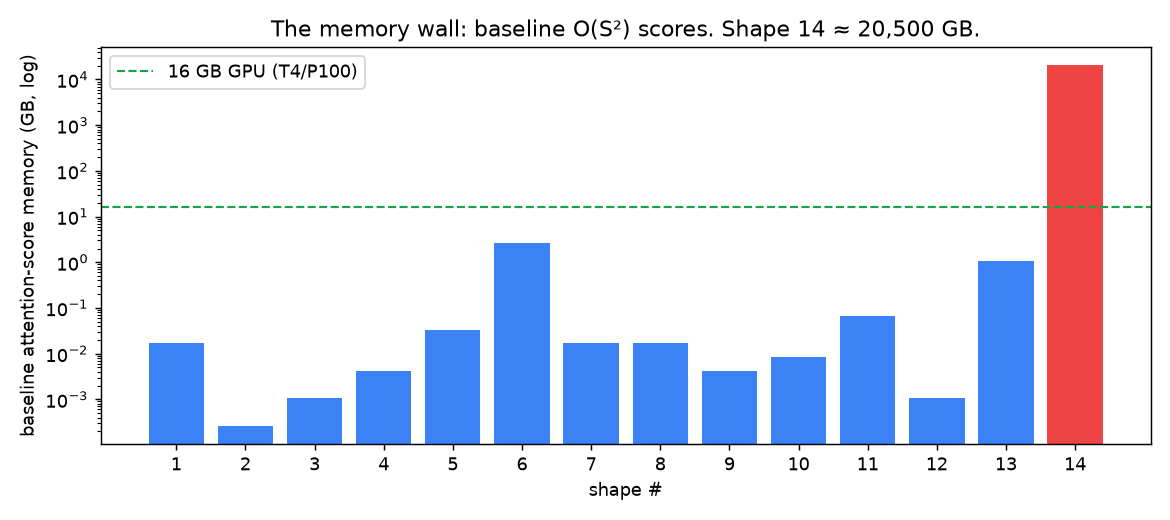
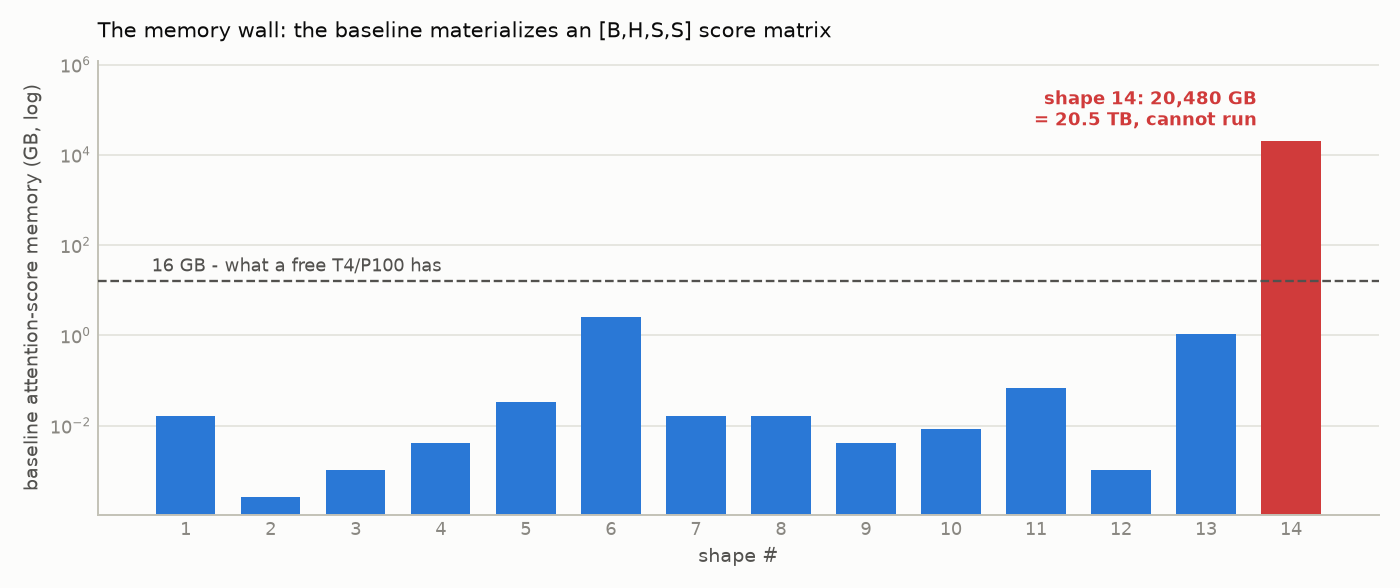
Measure on a T4: the stack that P100 could never run
Kaggle's API hands out a P100 by default, so torch.compile (Triton needs
sm>=7.0), the real FlashAttention SDPA backend (sm_75+) and fp16 tensor cores
had never actually been measured -- the ablation said "not measured" and the
docs were arguing from theory. The kernels API does let you choose: pass
machine_shape / --accelerator NvidiaTeslaT4. The accepted names live only in the
SDK docstring for ApiSaveKernelRequest, and anything unrecognised is silently
normalised back to a P100, which is why GpuT4x2 and GPU_T4X2 looked like they
worked and did not. Verified by probing get_device_name from a throwaway kernel.

On a T4, 13/13 still PASS, median 2.357x (1.088x-4.505x) vs 2.065x on P100.

Worth noting the T4 baselines are *slower* than the P100 ones (shape 13:
316.8 ms vs 168.6 ms) -- P100 has the better fp32 throughput and roughly twice
the memory bandwidth. The ratio improves anyway because the optimized path picks
up compile and FlashAttention there while the baseline stays bandwidth-bound.

Also adds the stage ablation the report had been promising: 4 shapes x 4 stages,
each selected by environment variable with no code edits (results/ablation_t4.csv).
It contradicts a claim the repo has been making -- fp16 does NOT break the
tolerance gate on these shapes; it passes, at up to 11.57x on shape 13. It does
so with max_abs 1.67e-3 against a 2e-3 hard gate, though, where fp32 sits at
1.91e-6. A full 13-shape fp16 sweep is running before any of that goes in the
[…]

diff --git a/scripts/make_figures.py b/scripts/make_figures.py
@@ -1,9 +1,9 @@
 #!/usr/bin/env python3
 """
-Generate report figures from results/results.csv:
-  - figures/speedups.png   : optimized-vs-baseline median speedup per shape (1-13)
+Generate report figures from the measured result CSVs:
+  - figures/speedups.png   : per-shape median speedup, P100 vs T4 side by side
   - figures/memory_wall.png: baseline attention-score memory per shape (log scale),
-                             showing why shape 14 (~20.5 TB) is infeasible.
+                             showing why shape 14 (~20.5 TB) is infeasible
 
 Usage: python scripts/make_figures.py
 Requires matplotlib (preinstalled on Colab/Kaggle; `pip install matplotlib` locally).
@@ -19,10 +19,23 @@ matplotlib.use("Agg")
 import matplotlib.pyplot as plt
 
 HERE = os.path.dirname(os.path.dirname(os.path.abspath(__file__)))
-CSV = os.path.join(HERE, "results", "results.csv")
+CSV_P100 = os.path.join(HERE, "results", "results.csv")
+CSV_T4 = os.path.join(HERE, "results", "results_t4.csv")
 FIG = os.path.join(HERE, "report", "figures")
 
-# [B, d_model, heads, seq, layers, ffn] for the memory-wall chart.
+# Palette roles. Categorical slots carry series identity; ink carries text; the
+# status red is reserved for the one bar that means "cannot run".
+SERIES_1 = "#2a78d6"   # P100
+SERIES_2 = "#eb6834"   # T4
+CRITICAL = "#d03b3b"
+SURFACE = "#fcfcfb"
+INK = "#0b0b0b"
+INK_2 = "#52514e"
+MUTED = "#898781"
+GRID = "#e1e0d9"
+AXIS = "#c3c2b7"
+
+# [B, d_model, heads, seq] for the memory-wall chart.
 SHAPES = {
     1: (64, 128, 4, 128), 2: (1, 128, 4, 128), 3: (4, 128, 4, 128),
     4: (16, 128, 4, 128), 5: (128, 128, 4, 128), 6: (10000, 128, 4, 128),
@@ -32,28 +45,97 @@ SHAPES = {
 }
 
 
-def speedup_chart():
-    ids, sp = [], []
-    with open(CSV) as f:
+def style_axes(ax):
+    """Recessive chrome: hairline horizontal grid, no box, muted tick labels."""
+    ax.set_facecolor(SURFACE)
+    ax.grid(axis="y", color=GRID, lw=0.8, zorder=0)
+    ax.set_axisbelow(True)
+    for side in ("top", "right"):
+        ax.spines[side].set_visible(False)
+    for side in ("left", "bottom"):
+        ax.spines[side].set_color(AXIS)
+        ax.spines[side].set_linewidth(1.0)
+    ax.tick_params(colors=MUTED, labelsize=9, length=0)
+
+
+def read_speedups(path):
+    out = {}
+    if not os.path.exists(path):
+        return out
+    with open(path, encoding="utf-8") as f:
         for r in csv.DictReader(f):
             if r["pass"] == "PASS" and r["speedup"]:
-                ids.append(int(r["shape"]))
-                sp.append(float(r["speedup"]))
+                out[int(r["shape"])] = float(r["speedup"])
+    return out
+
+
+def median(xs):
+    s = sorted(xs)
+    return s[len(s) // 2]
+
+
+def speedup_chart():
+    p100 = read_speedups(CSV_P100)
+    t4 = read_speedups(CSV_T4)
+    ids = sorted(set(p100) | set(t4))
     if not ids:
         print("no PASS speedups yet; skipping speedups.png")
         return
-    plt.figure(figsize=(9, 4))
-    bars = plt.bar([str(i) for i in ids], sp, color="#3b82f6")
-    plt.axhline(1.0, color="#888", ls="--", lw=1)
-    for b, v in zip(bars, sp):
-        plt.text(b.get_x() + b.get_width() / 2, v, f"{v:.2f}x",
-                 ha="center", va="bottom", fontsize=8)
-    plt.ylabel("median speedup vs baseline")
-    plt.xlabel("shape #")
-    plt.title("Optimized Transformer speedup (Kaggle GPU)")
-    plt.tight_layout()
-    plt.savefig(os.path.join(FIG, "speedups.png"), dpi=130)
-    print("wrote speedups.png")
+
+    series = [("Tesla P100 (sm_60) - SDPA only", p100, SERIES_1)]
+    if t4:
+        series.append(("Tesla T4 (sm_75) - SDPA + torch.compile", t4, SERIES_2))
+
+    fig, ax = plt.subplots(figsize=(10, 4.2))
+    fig.patch.set_facecolor(SURFACE)
+    style_axes(ax)
+
+    n = len(series)
+    # 2px-equivalent gap between adjacent bars: total group width < 1 slot.
+    group_w = 0.78
+    bar_w = group_w / n
+    for si, (label, data, color) in enumerate(series):
+        xs, ys = [], []
+        for k, i in enumerate(ids):
+            if i in data:
+                xs.append(k - group_w / 2 + bar_w * (si + 0.5))
+                ys.append(data[i])
+        ax.bar(xs, ys, width=bar_w * 0.92, color=color, label=label, zorder=2)
+
+    # Selective direct labels only: each series' best shape, never every bar.
+    for label, data, color in series:
+        if not data:
+            continue
+        best = max(data, key=data.get)
+        k = ids.index(best)
+        si = [s[0] for s in series].index(label)
+        x = k - group_w / 2 + bar_w * (si + 0.5)
+        ax.annotate(f"{data[best]:.3f}x", (x, data[best]),
+                    textcoords="offset points", xytext=(0, 5),
+                    ha="center", fontsize=9, color=INK, fontweight="bold")
+
+    # Parity line. Deliberately unlabelled: at y=1.0 every horizontal position
+    # is already occupied by a bar, and the y-axis makes it self-evident.
+    ax.axhline(1.0, color=AXIS, ls="--", lw=1.0, zorder=1)
+
+    ax.set_xticks(range(len(ids)))
+    ax.set_xticklabels([str(i) for i in ids])
+    ax.set_xlabel("shape #", color=INK_2, fontsize=10)
+    ax.set_ylabel("median speedup vs baseline", color=INK_2, fontsize=10)
+
+    med_bits = []
+    for label, data, _ in series:
+        if data:
+            med_bits.append(f"{label.split(' (')[0]} median {median(data.values()):.3f}x")
+    ax.set_title("Optimized Transformer speedup, 13/13 shapes PASS  -  "
+                 + " | ".join(med_bits),
+                 color=INK, fontsize=11, loc="left", pad=12)
+    ax.legend(frameon=False, fontsize=9, labelcolor=INK_2, loc="upper left")
+
+    fig.tight_layout()
+    fig.savefig(os.path.join(FIG, "speedups.png"), dpi=140, facecolor=SURFACE)
+    plt.close(fig)
+    print("wrote speedups.png (%d series, %d shapes)" % (len(series), len(ids)))
 
 
 def memory_wall_chart():
@@ -61,29 +143,44 @@ def memory_wall_chart():
     gb = []
     for i in ids:
         b, d, h, s = SHAPES[i]
-        elems = b * h * s * s  # [B, H, S, S] score matrix
-        gb.append(elems * 4 / 1e9)  # fp32 bytes -> GB
-    plt.figure(figsize=(9, 4))
-    colors = ["#ef4444" if i == 14 else "#3b82f6" for i in ids]
-    plt.bar([str(i) for i in ids], gb, color=colors)
-    plt.axhline(16, color="#16a34a", ls="--", lw=1.2, label="16 GB GPU (T4/P100)")
-    plt.yscale("log")
-    plt.ylabel("baseline attention-score memory (GB, log)")
-    plt.xlabel("shape #")
-    plt.title("The memory wall: baseline O(S²) scores. Shape 14 ≈ 20,500 GB.")
-    plt.legend()
-    plt.tight_layout()
-    plt.savefig(os.path.join(FIG, "memory_wall.png"), dpi=130)
+        gb.append(b * h * s * s * 4 / 1e9)  # [B,H,S,S] fp32 bytes -> GB
+
+    fig, ax = plt.subplots(figsize=(10, 4.2))
+    fig.patch.set_facecolor(SURFACE)
+    style_axes(ax)
+
+    colors = [CRITICAL if i == 14 else SERIES_1 for i in ids]
+    ax.bar([str(i) for i in ids], gb, color=colors, width=0.7, zorder=2)
+    ax.axhline(16, color=INK_2, ls="--", lw=1.2, zorder=3)
+    # Anchored left, where the short bars leave the band empty; on the right it
+    # collided with the shape-14 bar.
+    ax.annotate("16 GB - what a free T4/P100 has",
+                (-0.4, 16), textcoords="offset points",
+                xytext=(0, 5), ha="left", fontsize=9, color=INK_2)
+    ax.set_yscale("log")
+
+    # One direct label, on the bar that is the whole point of the chart.
+    ax.annotate("shape 14: 20,480 GB\n= 20.5 TB, cannot run",
+                (12.6, gb[-1]), textcoords="offset points", xytext=(0, 8),
+                ha="right", fontsize=9, color=CRITICAL, fontweight="bold")
+
+    ax.set_ylim(top=gb[-1] * 60)
+    ax.set_xlabel("shape #", color=INK_2, fontsize=10)
+    ax.set_ylabel("baseline attention-score memory (GB, log)",
+                  color=INK_2, fontsize=10)
+    ax.set_title("The memory wall: the baseline materializes an [B,H,S,S] score matrix",
+                 color=INK, fontsize=11, loc="left", pad=12)
+
+    fig.tight_layout()
+    fig.savefig(os.path.join(FIG, "memory_wall.png"), dpi=140, facecolor=SURFACE)
+    plt.close(fig)
     print("wrote memory_wall.png (shape 14 = %.0f GB)" % gb[ids.index(14)])
 
 
 def main():
     os.makedirs(FIG, exist_ok=True)
-    memory_wall_chart()   # does not need results.csv
-    if os.path.exists(CSV):
-        speedup_chart()
-    else:
-        print("results/results.csv not found yet; run run_all.py first for speedups.png")
+    memory_wall_chart()   # does not need any results file
+    speedup_chart()
 
 
 if __name__ == "__main__":

diff --git a/scripts/parse_kaggle_log.py b/scripts/parse_kaggle_log.py
@@ -3,7 +3,7 @@
 Parse a Kaggle kernel log (the JSON event array from `kaggle kernels output`)
 produced by the self-contained sweep, and write results/results.csv.
 
-Usage: python scripts/parse_kaggle_log.py <path-to-track3-bench.log>
+Usage: python scripts/parse_kaggle_log.py <path-to-log> [output.csv]
 """
 from __future__ import annotations
 
@@ -83,6 +83,7 @@ def parse_summary_block(text):
 
 def main():
     log = sys.argv[1] if len(sys.argv) > 1 else os.path.join(HERE, "results", "kaggle.log")
+    out_override = sys.argv[2] if len(sys.argv) > 2 else None
     text = load_stdout(log)
     summary = parse_summary_block(text)
     env = ""
@@ -149,7 +150,7 @@ def main():
         row14["notes"] = "full-seq: " + (em.group(0)[:90] if em else "error")
     rows.append(row14)
 
-    out = os.path.join(HERE, "results", "results.csv")
+    out = out_override or os.path.join(HERE, "results", "results.csv")
     os.makedirs(os.path.dirname(out), exist_ok=True)
     fields = ["shape", "B", "D", "H", "S", "L", "F", "pass", "max_abs",
               "max_rel", "baseline_ms", "opt_ms", "speedup", "notes"]
